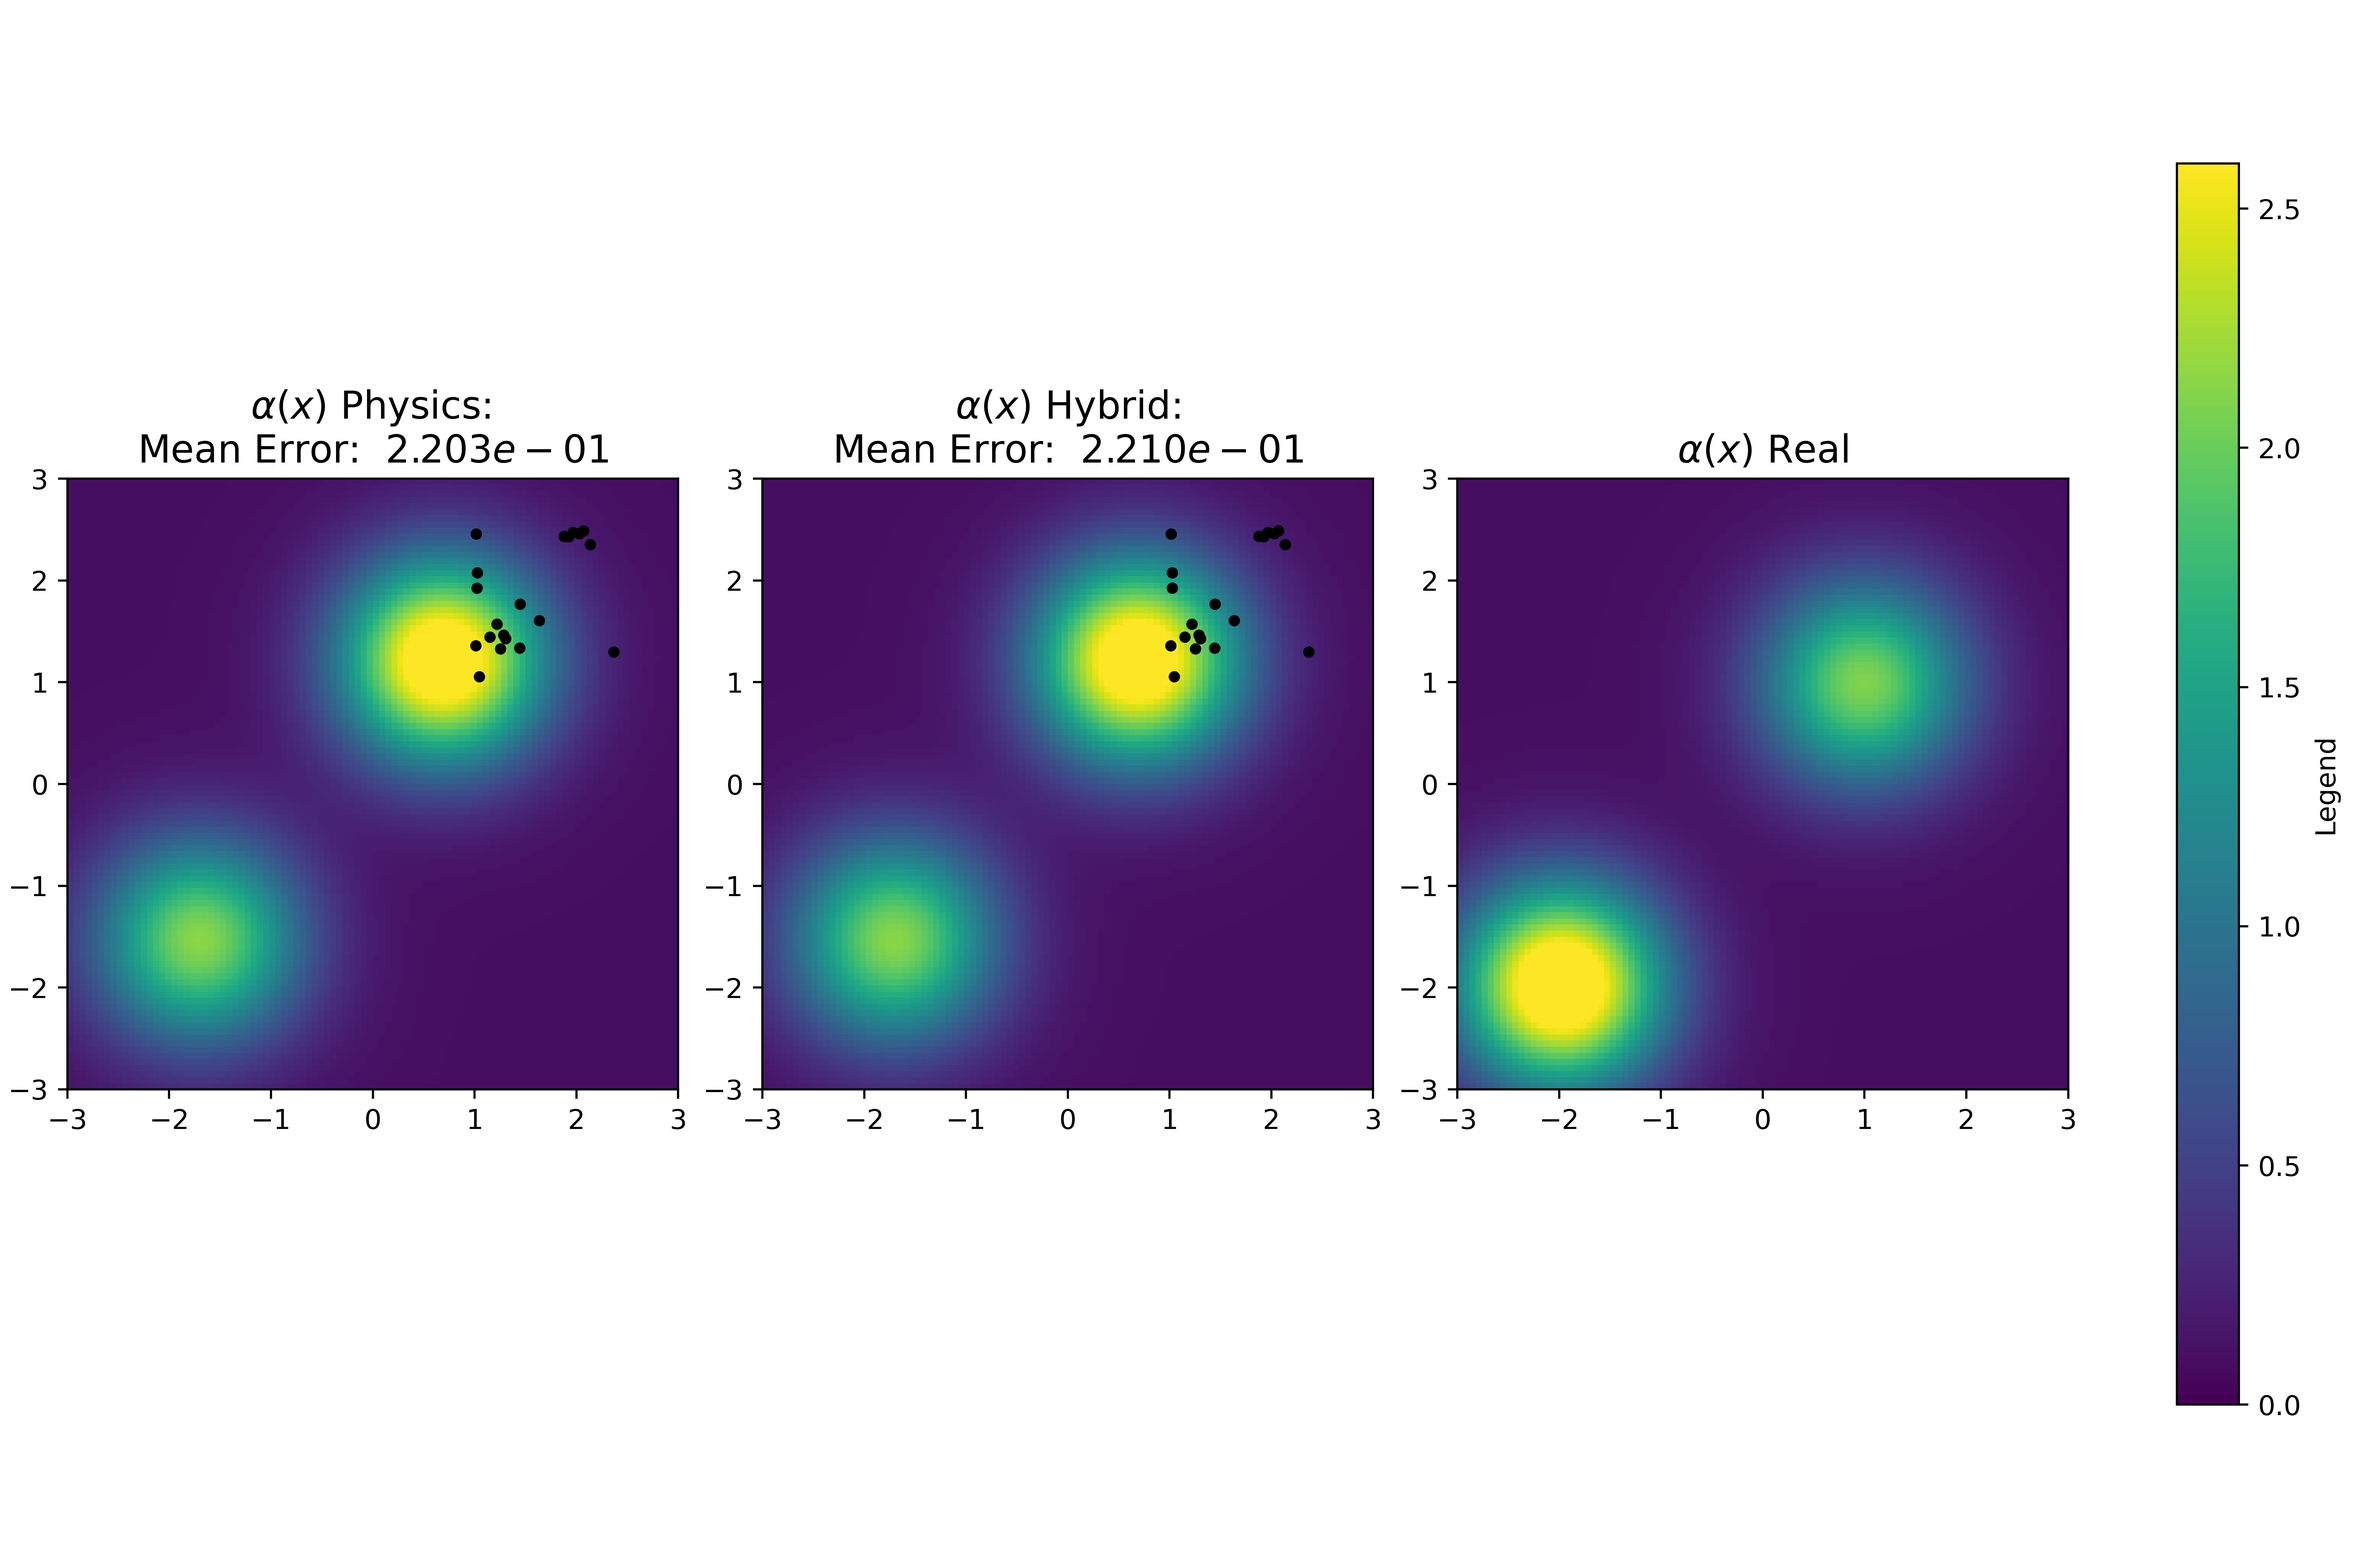
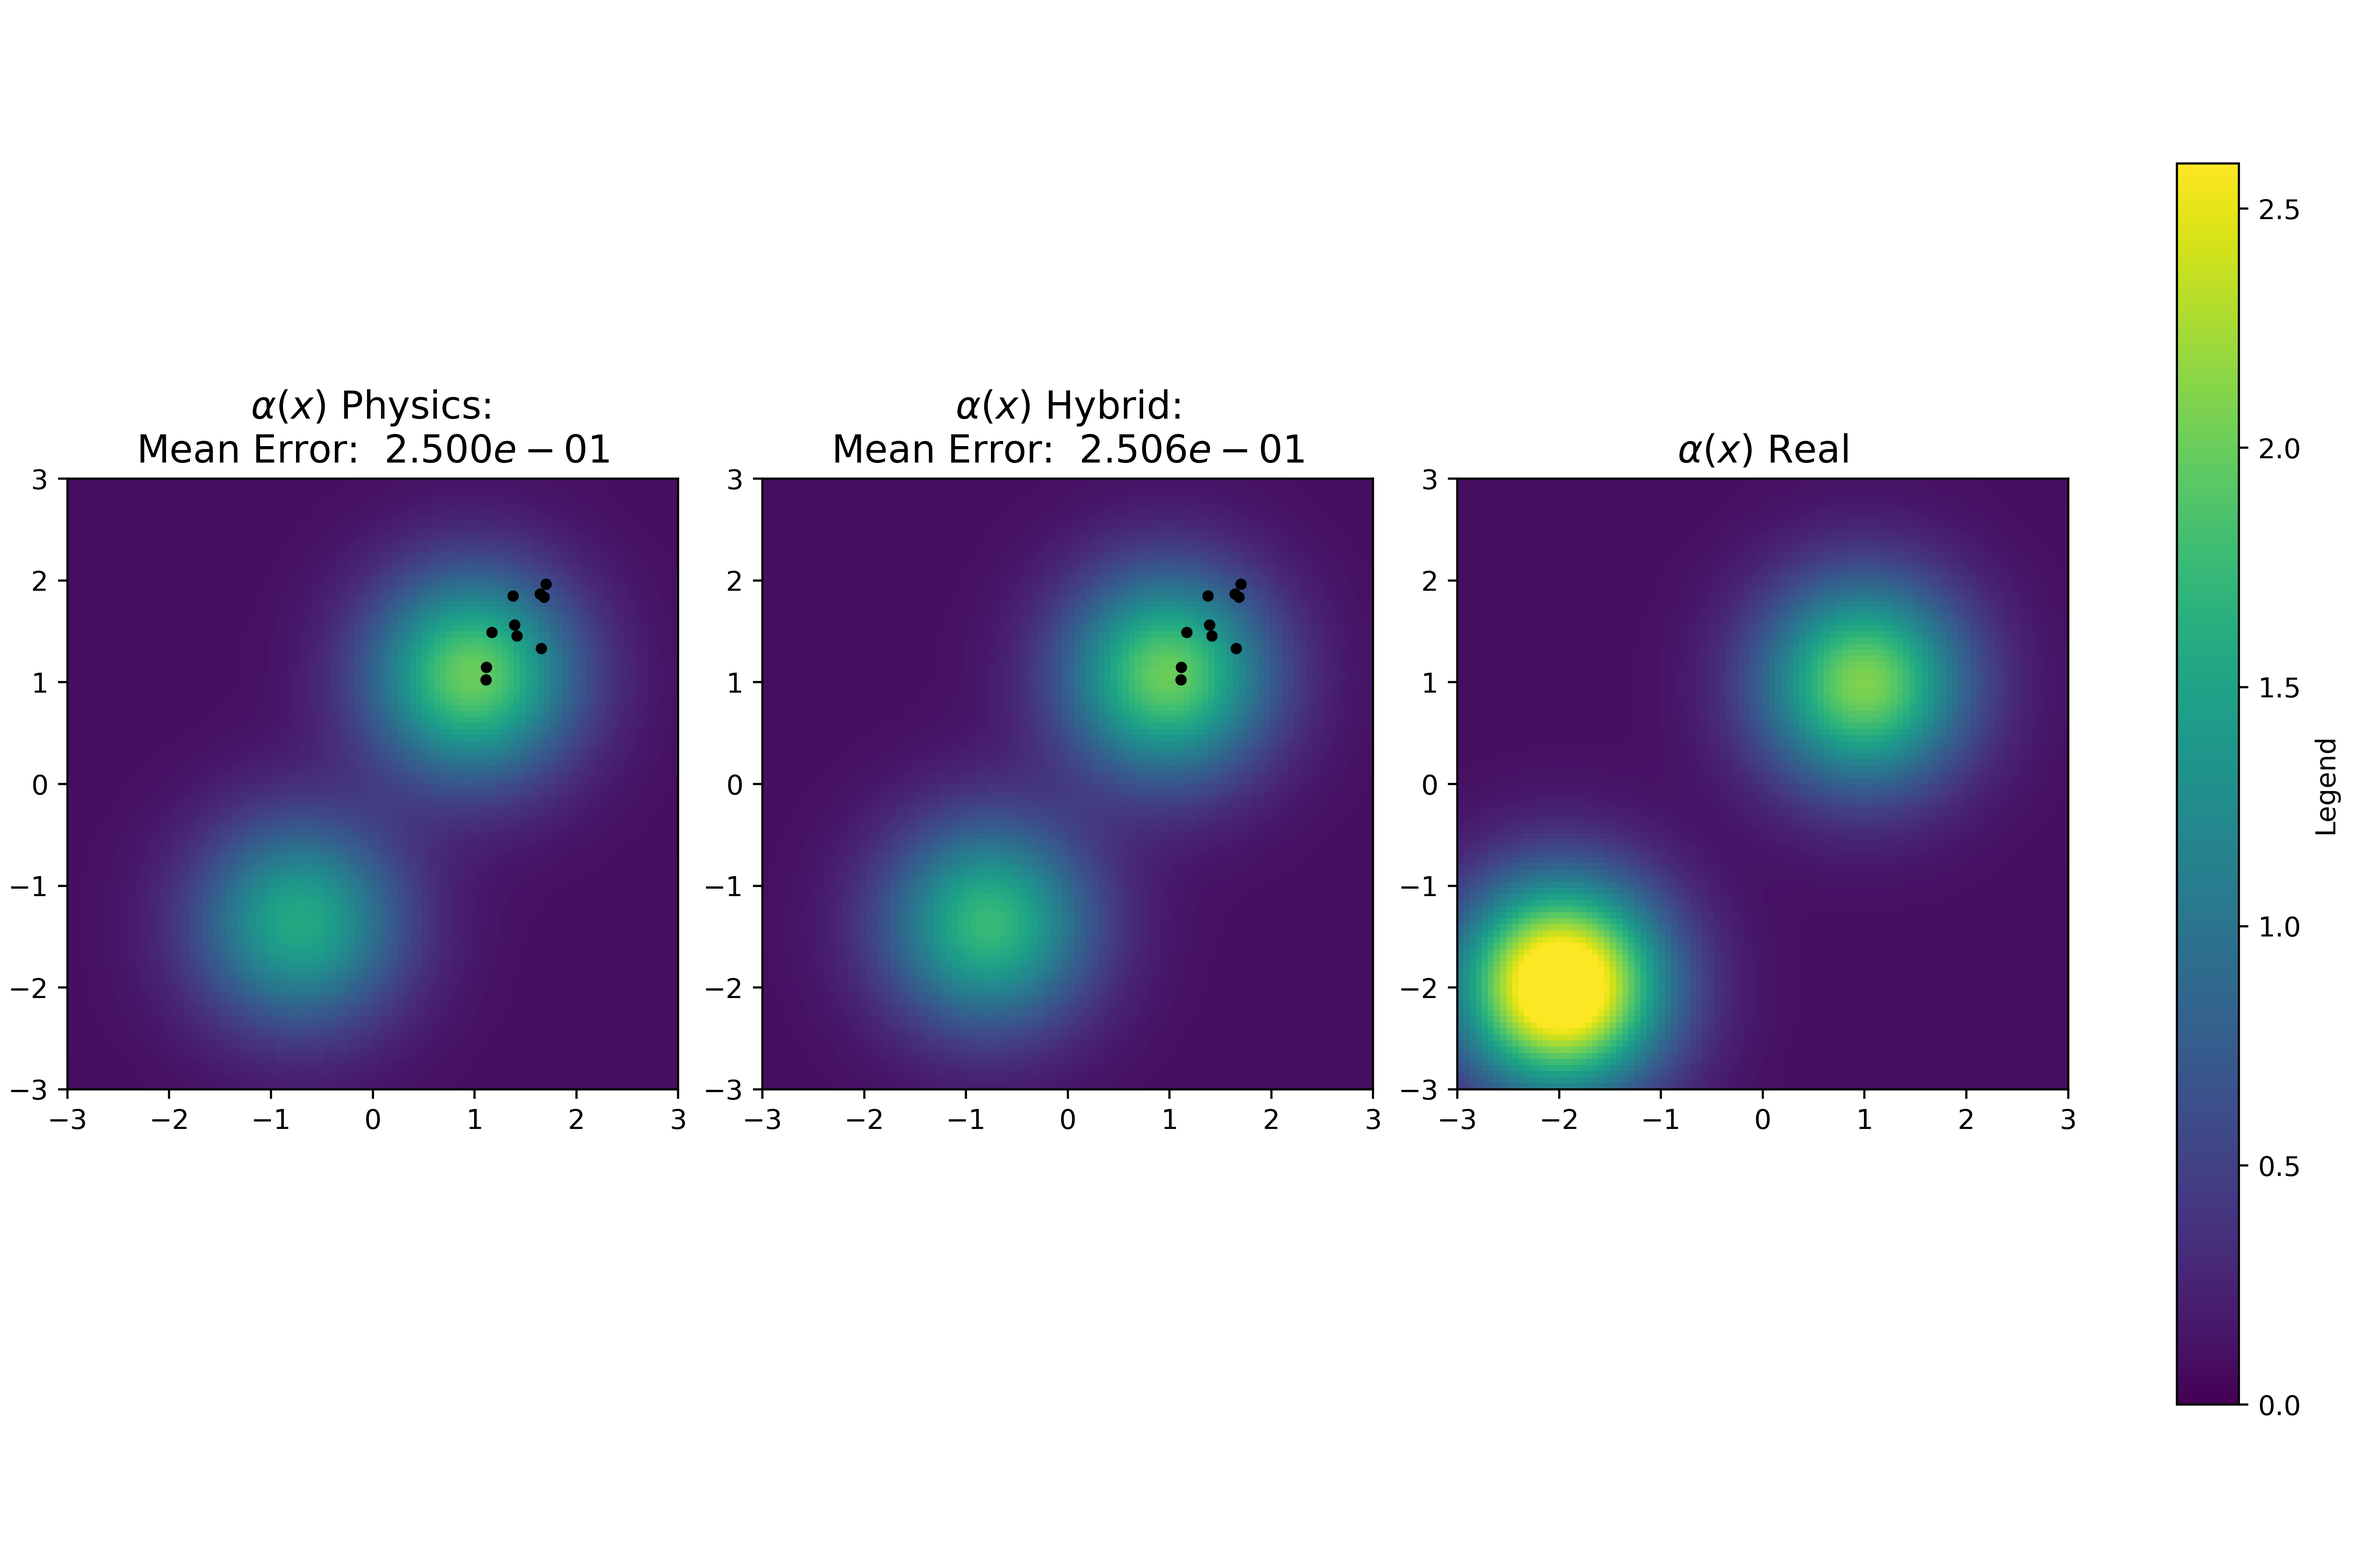
Working but still no example. Added tests.

Changed region(s): [[0.3117, 0.2812, 0.5298, 0.7188], [0.0312, 0.2812, 0.2493, 0.7188], [0.0623, 0.2812, 0.0935, 0.3125]]

diff --git a/models/physical.py b/models/physical.py
@@ -3,7 +3,7 @@ import torch.nn as nn
 
 def gaussian(param, num_gaussians=1, N=100, L=6):
     # interpolate alpha1 to the grid
-    gaussian_map = 0.1*torch.ones((N, N), dtype=torch.float32, device=param.device)
+    gaussian_map = torch.ones((N, N), dtype=torch.float32, device=param.device)
     
     x = torch.linspace(-L//2, L//2, N, device=param.device)
     y = torch.linspace(-L//2, L//2, N, device=param.device)
@@ -62,7 +62,7 @@ class PoissonEquation(nn.Module):
         Assemble the right-hand side vector f.
         """
         f = self.func(self.x, self.y)
-        return f.flatten()
+        return f.flatten() * self.dx ** 2
 
     def _assemble_D2(self):
         """
@@ -76,24 +76,24 @@ class PoissonEquation(nn.Module):
             for j in range(self.N):
                 idx = i * self.N + j
                 indices.append((idx, idx))
-                values.append(4.0)
+                values.append(-4.0)
                 if i > 0:  # Top
                     indices.append((idx, idx - self.N))
-                    values.append(-1.0)
+                    values.append(1.0)
                 if i < self.N - 1:  # Bottom
                     indices.append((idx, idx + self.N))
-                    values.append(-1.0)
+                    values.append(1.0)
                 if j > 0:  # Left
                     indices.append((idx, idx - 1))
-                    values.append(-1.0)
+                    values.append(1.0)
                 if j < self.N - 1:  # Right
                     indices.append((idx, idx + 1))
-                    values.append(-1.0)
+                    values.append(1.0)
         
         indices = torch.tensor(indices, dtype=torch.long, device=self.device).T
         values = torch.tensor(values, dtype=torch.float32, device=self.device)
         D2 = torch.sparse_coo_tensor(indices, values, (N2, N2))
-        return D2 / (self.dx**2)
+        return D2
 
     def _assemble_D(self):
         """
@@ -109,24 +109,26 @@ class PoissonEquation(nn.Module):
                 idx = i * self.N + j
                 if i > 0:  # Top
                     indices_x.append((idx, idx - self.N))
-                    values_x.append(-1.0)
+                    values_x.append(1.0)
                 if i < self.N - 1:  # Bottom
                     indices_x.append((idx, idx + self.N))
-                    values_x.append(1.0)
+                    values_x.append(-1.0)
                 if j > 0:  # Left
                     indices_y.append((idx, idx - 1))
-                    values_y.append(-1.0)
+                    values_y.append(1.0)
                 if j < self.N - 1:  # Right
                     indices_y.append((idx, idx + 1))
-                    values_y.append(1.0)
+                    values_y.append(-1.0)
+
+
 
         indices_x = torch.tensor(indices_x, dtype=torch.long, device=self.device).T
         values_x = torch.tensor(values_x, dtype=torch.float32, device=self.device)
         indices_y = torch.tensor(indices_y, dtype=torch.long, device=self.device).T
         values_y = torch.tensor(values_y, dtype=torch.float32, device=self.device)
 
-        self.Dx = torch.sparse_coo_tensor(indices_x, values_x, (N2, N2)) / (2 * self.dx)
-        self.Dy = torch.sparse_coo_tensor(indices_y, values_y, (N2, N2)) / (2 * self.dx)
+        self.Dx = torch.sparse_coo_tensor(indices_x, values_x, (N2, N2)) / 2
+        self.Dy = torch.sparse_coo_tensor(indices_y, values_y, (N2, N2)) / 2
         return self.Dx, self.Dy
 
     def _assemble_lhs(self):
@@ -139,15 +141,58 @@ class PoissonEquation(nn.Module):
             self.Dx, self.Dy = self._assemble_D()
 
         # Flatten the diffusion map
-        diffusion_map = self._create_diffusion_map().flatten()
+        diffusion_map = self._create_diffusion_map()
         D2 = self.D2.to_dense()
         Dx = self.Dx.to_dense()
         Dy = self.Dy.to_dense()
-        # Replace diagonal matrices with element-wise multiplication
-        lhs = (
-            diffusion_map[:,None] * D2
-             + (Dx @ diffusion_map)[:,None] * Dx
-             + (Dy @ diffusion_map)[:,None] * Dy
+
+        # plot Dx @ diffusion_map + the actual derivative of alpha
+        if self.verbose:
+            import matplotlib.pyplot as plt
+            plt.imshow((-(Dx @ diffusion_map.flatten())/self.dx).cpu().detach().numpy().reshape(self.N, self.N)[1:-1,1:-1], extent=(-self.L / 2, self.L / 2, -self.L / 2, self.L / 2), origin='lower')
+            plt.colorbar()
+            plt.title("Dx @ diffusion_map")
+            plt.savefig("Dx_diffusion.png")
+            plt.clf()
+            plt.imshow(-(Dy @ diffusion_map.flatten()/self.dx).cpu().detach().numpy().reshape(self.N, self.N)[1:-1,1:-1], extent=(-self.L / 2, self.L / 2, -self.L / 2, self.L / 2), origin='lower')
+            plt.colorbar()
+            plt.title("Dy @ diffusion_map")
+            plt.savefig("Dy_diffusion.png")
+
+            plt.clf()
+            plt.imshow(torch.gradient(diffusion_map, spacing=(self.dx,), dim = 0)[0].cpu().detach().numpy(), extent=(-self.L / 2, self.L / 2, -self.L / 2, self.L / 2), origin='lower')
+            plt.colorbar()
+            plt.title("d/dx diffusion_map")
+            plt.savefig("d_dx_diffusion.png")
+            plt.clf()
+
+            plt.imshow(torch.gradient(diffusion_map, spacing=(self.dx,), dim = 1)[0].cpu().detach().numpy(), extent=(-self.L / 2, self.L / 2, -self.L / 2, self.L / 2), origin='lower')
+            plt.colorbar()
+            plt.title("d/dy diffusion_map")
+            plt.savefig("d_dy_diffusion.png")
+            plt.clf()
+
+
+
+        # Assemble the left-hand side matrix
+        d_diff_x = (Dx @ diffusion_map.flatten()).reshape(self.N, self.N)
+        d_diff_y = (Dy @ diffusion_map.flatten()).reshape(self.N, self.N)
+        # set the boundary to zero
+        d_diff_x[0, :] = 0
+        d_diff_x[-1, :] = 0
+        d_diff_x[:, 0] = 0
+        d_diff_x[:, -1] = 0
+        d_diff_y[0, :] = 0
+        d_diff_y[-1, :] = 0
+        d_diff_y[:, 0] = 0
+        d_diff_y[:, -1] = 0
+
+
+
+        lhs = -(
+            diffusion_map.flatten()[:,None] * D2
+             + d_diff_x.flatten()[:,None] * Dx
+             + d_diff_y.flatten()[:,None] * Dy
         )
         return lhs.to_dense()
 
@@ -173,5 +218,4 @@ class PoissonEquation(nn.Module):
         u = torch.linalg.solve(lhs, rhs)
 
         return u
-
 

diff --git a/tests/test_physical.py b/tests/test_physical.py
@@ -1,0 +1,92 @@
+# To verify that the finite difference method is correct
+
+import torch
+import torch.nn as nn
+import os
+import sys
+import sympy as sp
+# Add the models directory to the Python path
+sys.path.append(os.path.abspath(os.path.join(os.path.dirname(__file__), '..', 'models')))
+
+from physical import PoissonEquation
+
+def test_poisson_equation():
+    device = torch.device("cpu")
+    L = 2  # Domain size [-3, 3]
+    N = 100  # Grid resolution
+    num_gaussians = 1  # Number of Gaussians in the diffusion map
+
+    
+    # Define the exact solution and its RHS
+    def exact_solution(x, y):
+        return torch.sin(torch.pi * x) * torch.sin(torch.pi * y)
+    
+    def diffusion_map(x, y):
+        return 1 + torch.exp(-((x)**2 + (y)**2))
+
+    def rhs_function_calculation_gaussian():
+        # use simpy to derive the corect rhs
+        x, y = sp.symbols('x y')
+        u = sp.sin(sp.pi * x) * sp.sin(sp.pi * y)
+        a = 1 + sp.exp(-((x)**2 + (y)**2))
+        u_x = sp.diff(u, x)
+        u_y = sp.diff(u, y)
+        au_xx = sp.diff(a * u_x, x)
+        au_yy = sp.diff(a * u_y, y)
+        rhs = au_xx + au_yy
+        print(rhs)
+
+
+    def rhs_function_gauss(x, y):
+        return -(-2*torch.pi*x*torch.exp(-x**2 - y**2)*torch.sin(torch.pi*y)*torch.cos(torch.pi*x) - 2*torch.pi*y*torch.exp(-x**2 - y**2)*torch.sin(torch.pi*x)*torch.cos(torch.pi*y) - 2*torch.pi**2*(torch.exp(-x**2 - y**2) + 1)*torch.sin(torch.pi*x)*torch.sin(torch.pi*y))
+
+
+    alpha = torch.tensor([1,0,0,1]).float()
+
+    # Initialize the PoissonEquation class
+    poisson_solver = PoissonEquation(
+        device=device,
+        L=L,
+        N=N,
+        num_gaussians=num_gaussians,
+        func=rhs_function_gauss,
+        verbose=True,
+        alpha=alpha
+    ).to(device)
+
+    # Solve the Poisson equation
+    u_numerical = poisson_solver()
+
+    # Compute the exact solution on the grid
+    x, y = torch.meshgrid(
+        torch.linspace(-L / 2, L / 2, N, device=device),
+        torch.linspace(-L / 2, L / 2, N, device=device),
+        indexing="ij",
+    )
+    u_exact = exact_solution(x, y).flatten()
+
+    # Compute the error
+    error = torch.norm(u_numerical - u_exact) / torch.norm(u_exact)
+
+    # Print the results
+    print(f"Relative error: {error:.6e}")
+
+    # Optional: Visualize the numerical and exact solutions
+    import matplotlib.pyplot as plt
+
+    u_numerical = u_numerical.reshape((N, N)).cpu().detach().numpy()
+    u_exact = u_exact.reshape((N, N)).cpu().detach().numpy()
+
+    plt.figure(figsize=(12, 5))
+    plt.subplot(1, 2, 1)
+    plt.imshow(u_numerical, extent=(-L / 2, L / 2, -L / 2, L / 2), origin="lower")
+    plt.colorbar()
+    plt.title("Numerical Solution")
+    plt.subplot(1, 2, 2)
+    plt.imshow(u_exact, extent=(-L / 2, L / 2, -L / 2, L / 2), origin="lower")
+    plt.colorbar()
+    plt.title("Exact Solution")
+    plt.savefig("solution_comparison.png")
+
+# Run the test
+test_poisson_equation()

diff --git a/MAIN.py b/MAIN.py
@@ -9,9 +9,8 @@ from datetime import datetime
 import pandas as pd
 
 def rhs(x, y):
-    # a sine wave
-    return torch.sin(2 * np.pi * x / 6) * torch.sin(2 * np.pi * y / 6)
-
+    # a complex rhs function
+    return torch.sin(2 * torch.pi * x / 6) * torch.cos(2 * torch.pi * y / 6) + torch.exp(-((x - 0.5)**2 + (y - 0.5)**2))
 device = torch.device('cuda' if torch.cuda.is_available() else 'cpu')
 # Generate data
 if input("Generate new data? (y/n): ") == 'y':
@@ -22,16 +21,16 @@ data = torch.from_numpy(np.loadtxt('data/diffusion/data.txt')).float()
 
 # Define the synthetic model
 data_dim = 1
-hidden_dim = 128
-num_layers = 6
+hidden_dim = 500
+num_layers = 4
 learning_rate = 1e-3
-num_epochs = 2000
+num_epochs = 3000
 
 # Define the physical model
 L = 6.0
 N = 50
 num_gaussians = 2
-orig = [1, 1, -2, 1.4, -1.1, -1.3, 1.0, 1.0]
+orig = [1, 1, -2, 1.4, 1, -1.3, 1.0, 1.0]
 alpha = torch.tensor(orig, device=device)
 
 

diff --git a/models/generate_data.py b/models/generate_data.py
@@ -14,8 +14,8 @@ def generate_data(rhs, N):
     solution = solver().reshape(N,N)
 
     # Choose sensor positions randomly in [1.5, 2.5]x[1.5, 2.5]
-    num_sensors = 20
-    sensors =  1.5*torch.rand((num_sensors, 2)) + 1.
+    num_sensors = 10
+    sensors =  torch.rand((num_sensors, 2)) + 1.
 
     # Interpolate the solution to the sensor positions
     sensor_values = interpolate_phys_solution(sensors, solution)
